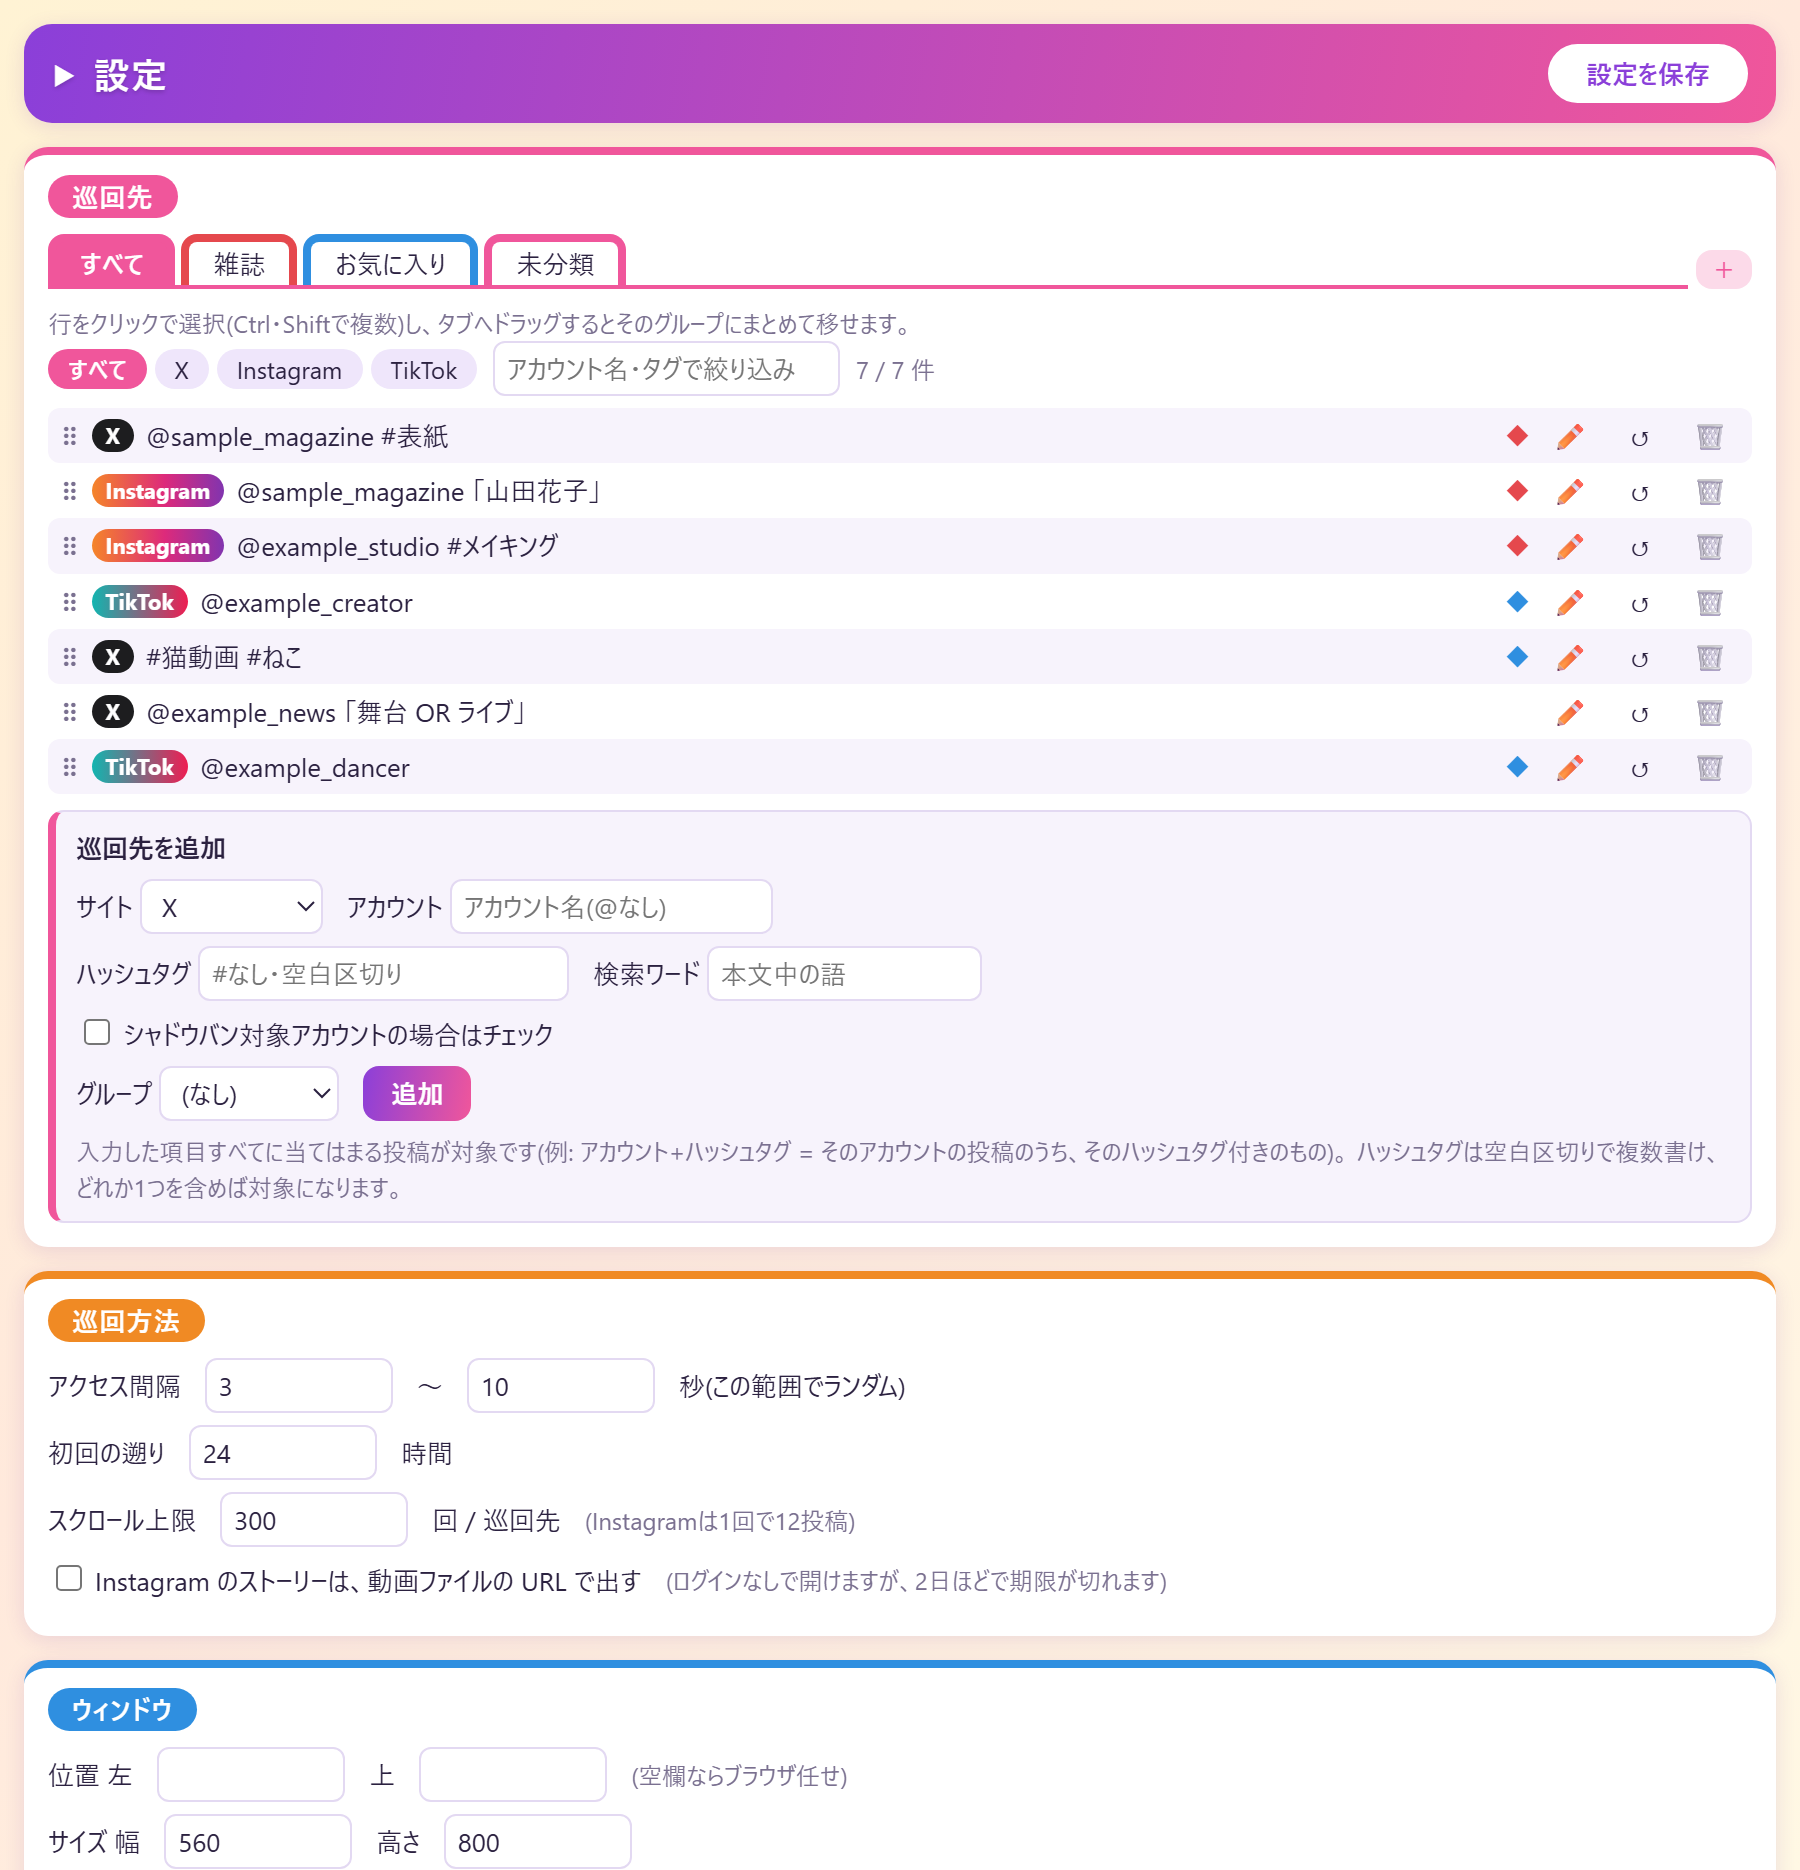
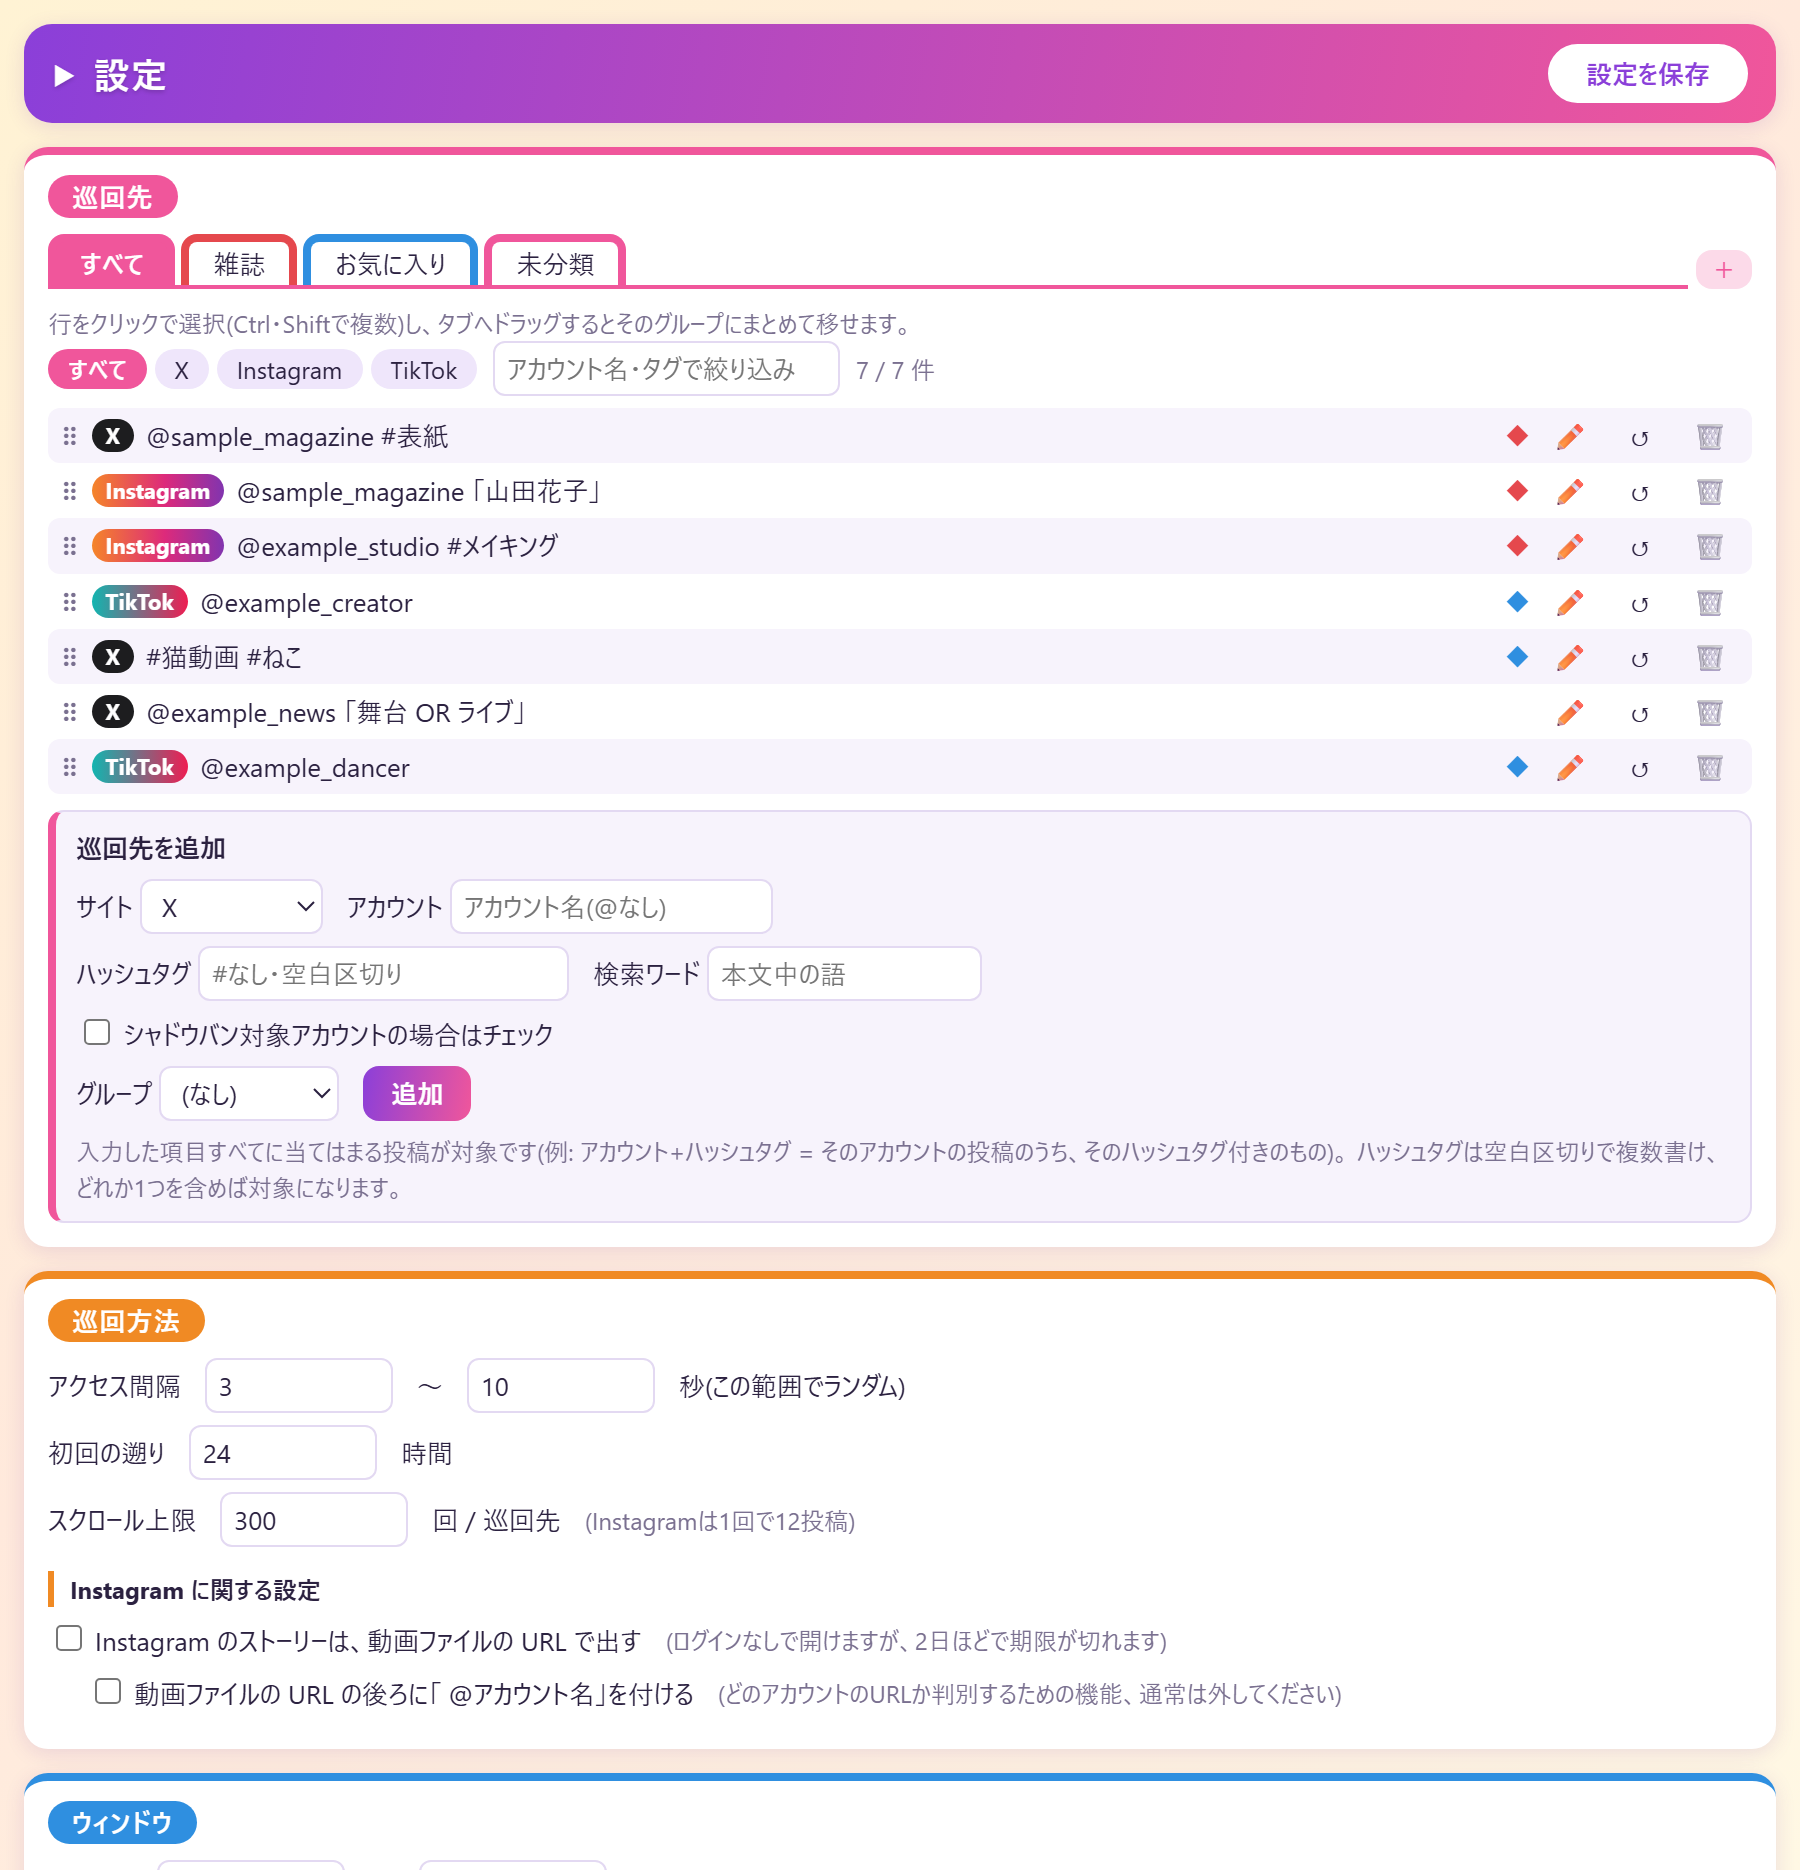
ストーリーの動画ファイル URL に @アカウント名を付ける設定、Instagram の設定に見出しを追加 (v0.2.6 テスト中)
- 設定「動画ファイルの URL の後ろに「 @アカウント名」を付ける」を追加
- 巡回方法の Instagram の設定を「Instagram に関する設定」の見出しの下にまとめた
- 「ストーリーズを巡回取得する」を「ストーリーを巡回取得する」に変更

Changed region(s): [[0.0, 0.8374, 0.9956, 1.0]]

diff --git a/src/options/options.js b/src/options/options.js
@@ -457,7 +457,7 @@ $('addForm').addEventListener('submit', async (e) => {
     return notify('シャドウバン対象アカウントは、アカウントの入力が必要です');
   }
   if (input.stories && (input.hashtags.length || input.keyword)) {
-    return notify('ストーリーズには本文がないため、ハッシュタグ・検索ワードは指定できません');
+    return notify('ストーリーには本文がないため、ハッシュタグ・検索ワードは指定できません');
   }
 
   const sameAs = (t) =>
@@ -493,6 +493,7 @@ async function renderSettings() {
   $('firstRunHours').value = s.firstRunHours;
   $('maxScrolls').value = s.maxScrolls;
   $('storyFileUrl').checked = !!s.storyFileUrl;
+  $('storyFileTag').checked = !!s.storyFileTag;
   $('winLeft').value = s.window.left ?? '';
   $('winTop').value = s.window.top ?? '';
   $('winWidth').value = s.window.width;
@@ -508,6 +509,7 @@ $('saveSettings').addEventListener('click', async () => {
     firstRunHours: Math.max(1, numberOr('firstRunHours', s.firstRunHours)),
     maxScrolls: Math.max(10, numberOr('maxScrolls', s.maxScrolls)),
     storyFileUrl: $('storyFileUrl').checked,
+    storyFileTag: $('storyFileTag').checked,
     window: {
       left: numberOr('winLeft', null),
       top: numberOr('winTop', null),

diff --git a/src/options/options.html b/src/options/options.html
@@ -68,9 +68,14 @@
       スクロール上限 <input id="maxScrolls" type="number" min="10" step="10"> 回 / 巡回先
       <span class="muted">(Instagramは1回で12投稿)</span>
     </div>
+    <h3>Instagram に関する設定</h3>
     <div class="field">
       <label><input id="storyFileUrl" type="checkbox"> Instagram のストーリーは、動画ファイルの URL で出す</label>
       <span class="muted">(ログインなしで開けますが、2日ほどで期限が切れます)</span>
+    </div>
+    <div class="field" style="padding-left: 1.5em">
+      <label><input id="storyFileTag" type="checkbox"> 動画ファイルの URL の後ろに「 @アカウント名」を付ける</label>
+      <span class="muted">(どのアカウントのURLか判別するための機能、通常は外してください)</span>
     </div>
   </section>
 

diff --git a/src/lib/patrol.js b/src/lib/patrol.js
@@ -181,7 +181,10 @@ async function patrolTarget(target, mode, nowMs, windowId, settings, shouldStop)
   if (complete && updateLastSuccess) state.lastSuccessAt = Math.min(range.untilMs, nowMs);
   await saveState(target.id, state);
 
-  const urls = fresh.map((item) => (settings.storyFileUrl && item.fileUrl) || item.url);
+  // 動画ファイルの URL にはアカウント名が入らないので、設定で「URL @アカウント名」の形にできる
+  const fileUrlOf = (item) =>
+    settings.storyFileUrl && item.fileUrl ? `${item.fileUrl}${settings.storyFileTag ? ` @${target.account}` : ''}` : null;
+  const urls = fresh.map((item) => fileUrlOf(item) || item.url);
   if (extracted.ok && extracted.stopped) {
     return { status: 'partial', urls, message: '停止したため、途中までの結果です', range };
   }

diff --git a/src/lib/storage.js b/src/lib/storage.js
@@ -17,6 +17,7 @@ export const DEFAULT_SETTINGS = {
   maxScrolls: 300, // 1巡回先あたりのスクロール回数の上限
   historyLimit: 5000, // 巡回先ごとに保持する取得済み履歴の件数
   storyFileUrl: false, // Instagram のストーリーを、ページの URL ではなく動画ファイルの URL で一覧に出す
+  storyFileTag: false, // 動画ファイルの URL の後ろに「 @アカウント名」を付ける(URL にアカウント名が入らないため)
 };
 
 export async function getSettings() {

diff --git a/src/lib/adapters/instagram.js b/src/lib/adapters/instagram.js
@@ -179,7 +179,7 @@ export default {
     hashtags: { required: false, placeholder: '#なし・空白区切り' },
     keyword: { required: false, placeholder: '本文中の語' },
     // ストーリーから動画を拾う。ストーリーには本文がないので、ハッシュタグ・検索ワードとは併用できない
-    stories: { label: 'ストーリーズを巡回取得する' },
+    stories: { label: 'ストーリーを巡回取得する' },
   },
 
   normalizeAccount(raw) {

diff --git a/src/ui.css b/src/ui.css
@@ -192,6 +192,15 @@ h2 .all {
   font-weight: normal;
 }
 
+/* エリアの中の小見出し */
+h3 {
+  margin: 12px 0 6px;
+  padding-left: 8px;
+  border-left: 3px solid var(--accent);
+  font-size: 12px;
+  font-weight: 700;
+}
+
 /* ---- 入力部品 ---- */
 
 button,

diff --git a/README.md b/README.md
@@ -84,13 +84,14 @@ X の巡回先は、アカウントを指定した場合も X の検索を使っ
 
 ### Instagram のストーリー
 
-Instagram の巡回先で「ストーリーズを巡回取得する」にチェックを入れると、そのアカウントのストーリーのうち動画のものを一覧にします。URL は 1 つ目のストーリーも含めて `https://www.instagram.com/stories/アカウント名/番号/` の形で出ます。
+Instagram の巡回先で「ストーリーを巡回取得する」にチェックを入れると、そのアカウントのストーリーのうち動画のものを一覧にします。URL は 1 つ目のストーリーも含めて `https://www.instagram.com/stories/アカウント名/番号/` の形で出ます。
 
 - ストーリーは 24 時間で消えるので、その日のうちに巡回してください。「前回完了以降」でも、前回の巡回時刻に関係なく、いま表示されているストーリーをすべて確認します(取得済みのものは除外)。
 - 「〇〇として表示しますか？」の確認画面の時点で一覧を読み取り、「ストーリーズを見る」は押しません。
 - ストーリーには本文がないため、ハッシュタグ・検索ワードは指定できません。
 - 同じアカウントの投稿も取りたい場合は、チェックなしの巡回先を別に追加します。
 - 設定の「Instagram のストーリーは、動画ファイルの URL で出す」にチェックを入れると、ストーリーのページの URL の代わりに、動画ファイルそのものの URL を出します。ログインなしで開けますが、2 日ほどで期限が切れます。
+  - 動画ファイルの URL にはアカウント名が入りません。「動画ファイルの URL の後ろに「 @アカウント名」を付ける」にチェックを入れると、`URL @アカウント名` の形で出します。どのアカウントの URL かを判別するための機能です。そのままブラウザなどに貼り付けても、URL として読めません。
 
 ### グループと並べ替え(設定画面)
 
